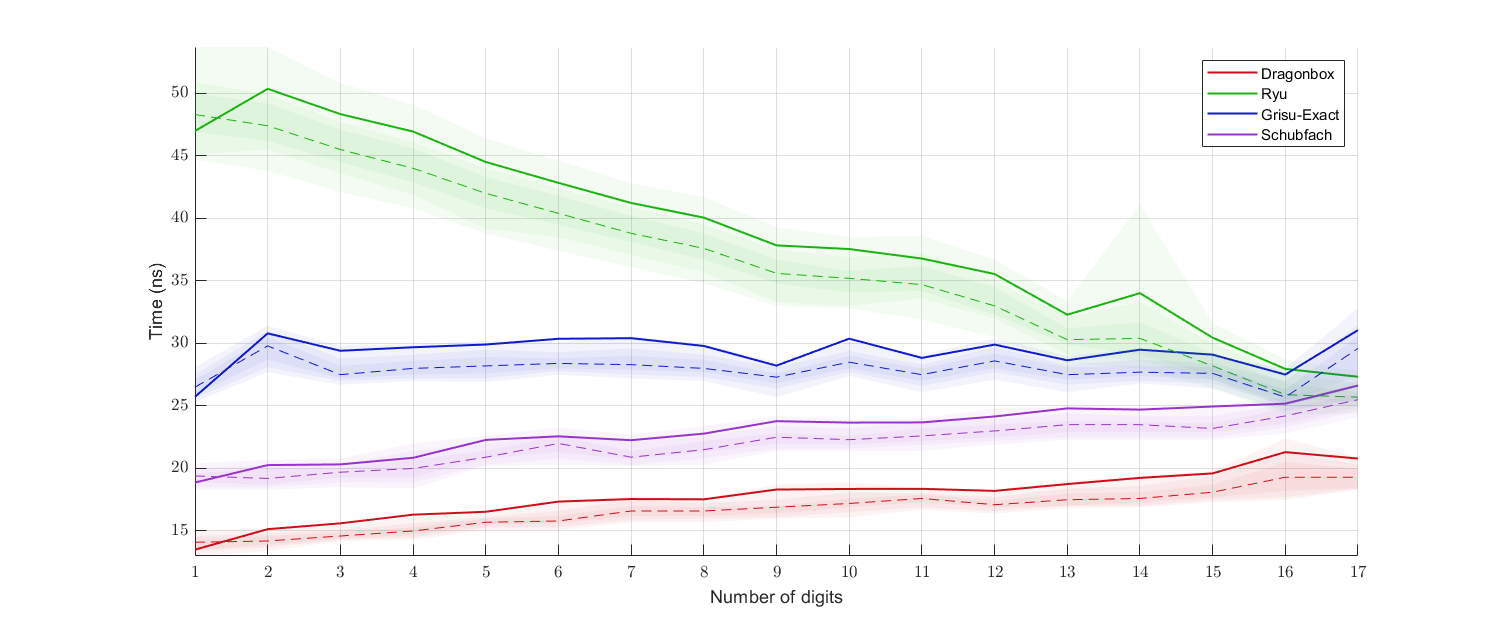
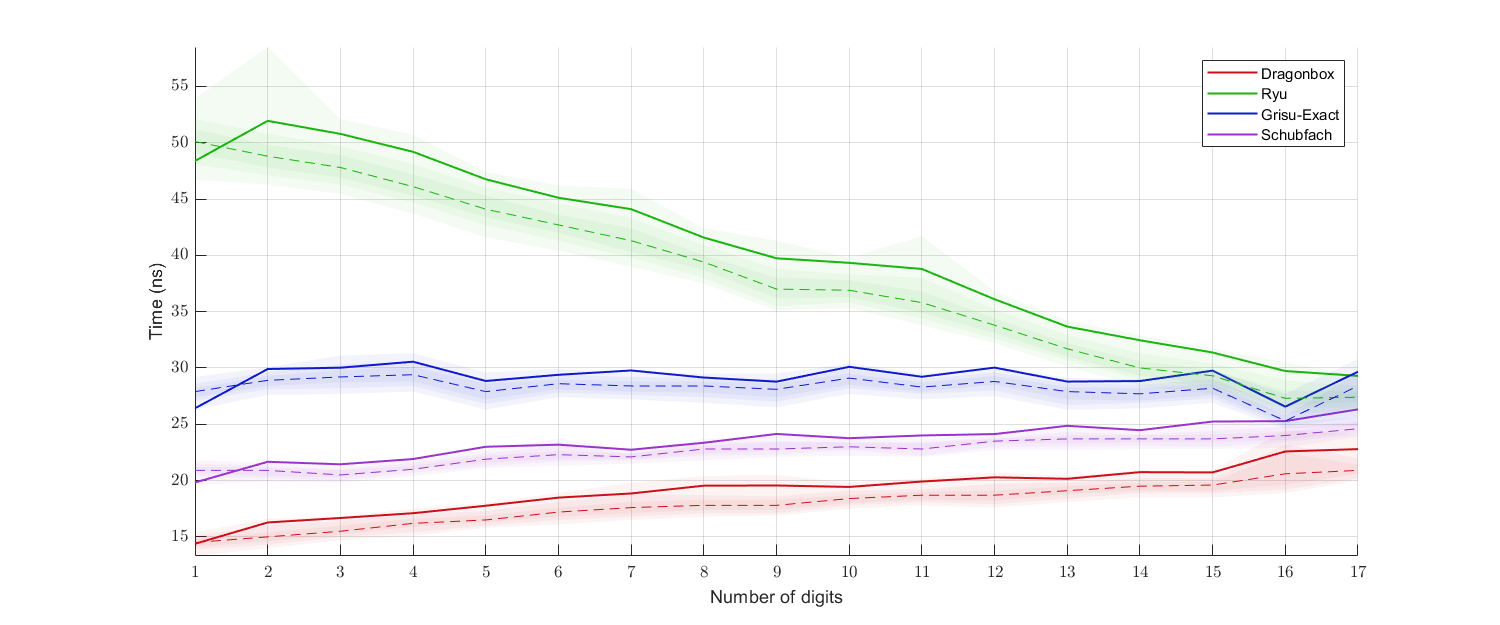
Rerun benchmark

Changed region(s): [[0.092, 0.1216, 0.92, 0.8816], [0.736, 0.456, 0.7667, 0.4864]]

diff --git a/other_files/unknown_win64_vc2019.html b/other_files/unknown_win64_vc2019.html
@@ -329,194 +329,194 @@ body { padding-top: 70px; }
 <h2>Source CSV</h2>
 <textarea id="textInput" class="form-control" rows="5" readonly>
   Type,Function,Digit,Time(ns)
-randomdigit,doubleconv,1,78.459000
-randomdigit,doubleconv,2,87.333000
-randomdigit,doubleconv,3,94.309000
-randomdigit,doubleconv,4,101.148000
-randomdigit,doubleconv,5,109.301000
-randomdigit,doubleconv,6,109.501000
-randomdigit,doubleconv,7,118.698000
-randomdigit,doubleconv,8,119.117000
-randomdigit,doubleconv,9,121.857000
-randomdigit,doubleconv,10,122.282000
-randomdigit,doubleconv,11,126.005000
-randomdigit,doubleconv,12,127.141000
-randomdigit,doubleconv,13,126.773000
-randomdigit,doubleconv,14,132.406000
-randomdigit,doubleconv,15,130.986000
-randomdigit,doubleconv,16,142.143000
-randomdigit,doubleconv,17,152.495000
-randomdigit,emyg,1,49.045000
-randomdigit,emyg,2,55.411000
-randomdigit,emyg,3,57.084000
-randomdigit,emyg,4,59.229000
-randomdigit,emyg,5,62.176000
-randomdigit,emyg,6,62.003000
-randomdigit,emyg,7,64.376000
-randomdigit,emyg,8,65.390000
-randomdigit,emyg,9,67.238000
-randomdigit,emyg,10,69.076000
-randomdigit,emyg,11,71.325000
-randomdigit,emyg,12,75.057000
-randomdigit,emyg,13,76.751000
-randomdigit,emyg,14,77.952000
-randomdigit,emyg,15,80.068000
-randomdigit,emyg,16,85.035000
-randomdigit,emyg,17,87.798000
-randomdigit,erthink,1,33.585000
-randomdigit,erthink,2,35.746000
-randomdigit,erthink,3,37.096000
-randomdigit,erthink,4,38.982000
-randomdigit,erthink,5,40.127000
-randomdigit,erthink,6,41.600000
-randomdigit,erthink,7,42.179000
-randomdigit,erthink,8,44.082000
-randomdigit,erthink,9,45.079000
-randomdigit,erthink,10,46.947000
-randomdigit,erthink,11,53.679000
-randomdigit,erthink,12,49.626000
-randomdigit,erthink,13,51.138000
-randomdigit,erthink,14,52.888000
-randomdigit,erthink,15,54.329000
-randomdigit,erthink,16,56.591000
-randomdigit,erthink,17,60.667000
-randomdigit,floaxie,1,32.630000
-randomdigit,floaxie,2,39.209000
-randomdigit,floaxie,3,42.250000
-randomdigit,floaxie,4,47.750000
-randomdigit,floaxie,5,54.084000
-randomdigit,floaxie,6,61.493000
-randomdigit,floaxie,7,69.409000
-randomdigit,floaxie,8,78.260000
-randomdigit,floaxie,9,84.281000
-randomdigit,floaxie,10,91.064000
-randomdigit,floaxie,11,95.948000
-randomdigit,floaxie,12,99.179000
-randomdigit,floaxie,13,103.726000
-randomdigit,floaxie,14,106.436000
-randomdigit,floaxie,15,107.823000
-randomdigit,floaxie,16,109.790000
-randomdigit,floaxie,17,111.747000
-randomdigit,fmt,1,49.873000
-randomdigit,fmt,2,53.514000
-randomdigit,fmt,3,51.179000
-randomdigit,fmt,4,54.108000
-randomdigit,fmt,5,51.936000
-randomdigit,fmt,6,55.172000
-randomdigit,fmt,7,53.064000
-randomdigit,fmt,8,55.216000
-randomdigit,fmt,9,54.939000
-randomdigit,fmt,10,56.561000
-randomdigit,fmt,11,57.420000
-randomdigit,fmt,12,55.717000
-randomdigit,fmt,13,57.486000
-randomdigit,fmt,14,60.700000
-randomdigit,fmt,15,60.603000
-randomdigit,fmt,16,59.742000
-randomdigit,fmt,17,65.131000
-randomdigit,grisu2,1,120.831000
-randomdigit,grisu2,2,127.696000
-randomdigit,grisu2,3,126.901000
-randomdigit,grisu2,4,133.807000
-randomdigit,grisu2,5,137.034000
-randomdigit,grisu2,6,139.217000
-randomdigit,grisu2,7,139.724000
-randomdigit,grisu2,8,141.315000
-randomdigit,grisu2,9,145.110000
-randomdigit,grisu2,10,149.569000
-randomdigit,grisu2,11,156.657000
-randomdigit,grisu2,12,160.463000
-randomdigit,grisu2,13,163.481000
-randomdigit,grisu2,14,165.619000
-randomdigit,grisu2,15,166.089000
-randomdigit,grisu2,16,172.497000
-randomdigit,grisu2,17,181.788000
-randomdigit,milo,1,53.926000
-randomdigit,milo,2,60.153000
-randomdigit,milo,3,63.386000
-randomdigit,milo,4,63.845000
-randomdigit,milo,5,65.914000
-randomdigit,milo,6,67.201000
-randomdigit,milo,7,68.445000
-randomdigit,milo,8,70.460000
-randomdigit,milo,9,71.553000
-randomdigit,milo,10,72.617000
-randomdigit,milo,11,78.578000
-randomdigit,milo,12,80.934000
-randomdigit,milo,13,88.537000
-randomdigit,milo,14,85.727000
-randomdigit,milo,15,87.594000
-randomdigit,milo,16,97.470000
-randomdigit,milo,17,98.293000
-randomdigit,ryu,1,63.388000
-randomdigit,ryu,2,61.571000
-randomdigit,ryu,3,63.211000
-randomdigit,ryu,4,60.217000
-randomdigit,ryu,5,58.703000
-randomdigit,ryu,6,57.261000
-randomdigit,ryu,7,56.742000
-randomdigit,ryu,8,55.131000
-randomdigit,ryu,9,49.953000
-randomdigit,ryu,10,53.806000
-randomdigit,ryu,11,51.291000
-randomdigit,ryu,12,49.256000
-randomdigit,ryu,13,47.162000
-randomdigit,ryu,14,45.579000
-randomdigit,ryu,15,43.387000
-randomdigit,ryu,16,43.176000
-randomdigit,ryu,17,42.666000
-randomdigit,dragonbox,1,27.650000
-randomdigit,dragonbox,2,29.309000
-randomdigit,dragonbox,3,29.324000
-randomdigit,dragonbox,4,29.538000
-randomdigit,dragonbox,5,29.173000
-randomdigit,dragonbox,6,30.391000
-randomdigit,dragonbox,7,29.689000
-randomdigit,dragonbox,8,30.594000
-randomdigit,dragonbox,9,30.180000
-randomdigit,dragonbox,10,30.685000
-randomdigit,dragonbox,11,29.797000
-randomdigit,dragonbox,12,30.619000
-randomdigit,dragonbox,13,30.249000
-randomdigit,dragonbox,14,31.367000
-randomdigit,dragonbox,15,30.308000
-randomdigit,dragonbox,16,31.410000
-randomdigit,dragonbox,17,35.472000
-randomdigit,dragonbox_comp,1,32.825000
-randomdigit,dragonbox_comp,2,34.558000
-randomdigit,dragonbox_comp,3,33.846000
-randomdigit,dragonbox_comp,4,34.591000
-randomdigit,dragonbox_comp,5,34.269000
-randomdigit,dragonbox_comp,6,35.542000
-randomdigit,dragonbox_comp,7,34.974000
-randomdigit,dragonbox_comp,8,36.058000
-randomdigit,dragonbox_comp,9,36.077000
-randomdigit,dragonbox_comp,10,36.825000
-randomdigit,dragonbox_comp,11,36.354000
-randomdigit,dragonbox_comp,12,36.855000
-randomdigit,dragonbox_comp,13,36.837000
-randomdigit,dragonbox_comp,14,37.842000
-randomdigit,dragonbox_comp,15,36.943000
-randomdigit,dragonbox_comp,16,38.763000
-randomdigit,dragonbox_comp,17,42.631000
-randomdigit,fmt_full_cache,1,43.418000
-randomdigit,fmt_full_cache,2,46.050000
-randomdigit,fmt_full_cache,3,46.090000
-randomdigit,fmt_full_cache,4,49.843000
-randomdigit,fmt_full_cache,5,48.798000
-randomdigit,fmt_full_cache,6,51.422000
-randomdigit,fmt_full_cache,7,49.316000
-randomdigit,fmt_full_cache,8,52.332000
-randomdigit,fmt_full_cache,9,53.438000
-randomdigit,fmt_full_cache,10,54.767000
-randomdigit,fmt_full_cache,11,54.962000
-randomdigit,fmt_full_cache,12,55.187000
-randomdigit,fmt_full_cache,13,55.543000
-randomdigit,fmt_full_cache,14,55.850000
-randomdigit,fmt_full_cache,15,55.447000
-randomdigit,fmt_full_cache,16,56.709000
-randomdigit,fmt_full_cache,17,61.359000
-  </textarea>
+randomdigit,doubleconv,1,86.228000
+randomdigit,doubleconv,2,95.433000
+randomdigit,doubleconv,3,106.244000
+randomdigit,doubleconv,4,110.417000
+randomdigit,doubleconv,5,115.523000
+randomdigit,doubleconv,6,121.489000
+randomdigit,doubleconv,7,117.749000
+randomdigit,doubleconv,8,124.299000
+randomdigit,doubleconv,9,117.958000
+randomdigit,doubleconv,10,121.491000
+randomdigit,doubleconv,11,132.732000
+randomdigit,doubleconv,12,136.973000
+randomdigit,doubleconv,13,131.999000
+randomdigit,doubleconv,14,132.294000
+randomdigit,doubleconv,15,138.627000
+randomdigit,doubleconv,16,139.850000
+randomdigit,doubleconv,17,146.298000
+randomdigit,emyg,1,51.573000
+randomdigit,emyg,2,55.405000
+randomdigit,emyg,3,61.655000
+randomdigit,emyg,4,63.348000
+randomdigit,emyg,5,62.883000
+randomdigit,emyg,6,64.313000
+randomdigit,emyg,7,72.009000
+randomdigit,emyg,8,78.801000
+randomdigit,emyg,9,82.410000
+randomdigit,emyg,10,76.806000
+randomdigit,emyg,11,78.349000
+randomdigit,emyg,12,79.419000
+randomdigit,emyg,13,83.289000
+randomdigit,emyg,14,83.178000
+randomdigit,emyg,15,83.538000
+randomdigit,emyg,16,90.624000
+randomdigit,emyg,17,98.789000
+randomdigit,erthink,1,36.237000
+randomdigit,erthink,2,33.432000
+randomdigit,erthink,3,40.198000
+randomdigit,erthink,4,36.666000
+randomdigit,erthink,5,39.073000
+randomdigit,erthink,6,37.726000
+randomdigit,erthink,7,41.059000
+randomdigit,erthink,8,44.301000
+randomdigit,erthink,9,45.250000
+randomdigit,erthink,10,42.244000
+randomdigit,erthink,11,44.638000
+randomdigit,erthink,12,51.162000
+randomdigit,erthink,13,47.595000
+randomdigit,erthink,14,49.340000
+randomdigit,erthink,15,53.488000
+randomdigit,erthink,16,52.795000
+randomdigit,erthink,17,60.616000
+randomdigit,floaxie,1,33.571000
+randomdigit,floaxie,2,40.230000
+randomdigit,floaxie,3,41.166000
+randomdigit,floaxie,4,46.787000
+randomdigit,floaxie,5,53.604000
+randomdigit,floaxie,6,71.616000
+randomdigit,floaxie,7,73.048000
+randomdigit,floaxie,8,76.735000
+randomdigit,floaxie,9,80.882000
+randomdigit,floaxie,10,94.187000
+randomdigit,floaxie,11,97.235000
+randomdigit,floaxie,12,100.801000
+randomdigit,floaxie,13,99.980000
+randomdigit,floaxie,14,103.489000
+randomdigit,floaxie,15,105.333000
+randomdigit,floaxie,16,110.717000
+randomdigit,floaxie,17,107.362000
+randomdigit,fmt,1,52.198000
+randomdigit,fmt,2,54.776000
+randomdigit,fmt,3,52.161000
+randomdigit,fmt,4,58.836000
+randomdigit,fmt,5,56.955000
+randomdigit,fmt,6,53.528000
+randomdigit,fmt,7,52.509000
+randomdigit,fmt,8,57.602000
+randomdigit,fmt,9,60.834000
+randomdigit,fmt,10,57.477000
+randomdigit,fmt,11,58.971000
+randomdigit,fmt,12,55.770000
+randomdigit,fmt,13,55.874000
+randomdigit,fmt,14,56.472000
+randomdigit,fmt,15,62.634000
+randomdigit,fmt,16,72.528000
+randomdigit,fmt,17,74.404000
+randomdigit,grisu2,1,114.043000
+randomdigit,grisu2,2,122.138000
+randomdigit,grisu2,3,120.953000
+randomdigit,grisu2,4,123.374000
+randomdigit,grisu2,5,122.704000
+randomdigit,grisu2,6,125.247000
+randomdigit,grisu2,7,130.645000
+randomdigit,grisu2,8,135.679000
+randomdigit,grisu2,9,138.106000
+randomdigit,grisu2,10,142.592000
+randomdigit,grisu2,11,145.814000
+randomdigit,grisu2,12,148.884000
+randomdigit,grisu2,13,152.208000
+randomdigit,grisu2,14,156.308000
+randomdigit,grisu2,15,162.578000
+randomdigit,grisu2,16,163.468000
+randomdigit,grisu2,17,172.360000
+randomdigit,milo,1,53.854000
+randomdigit,milo,2,58.307000
+randomdigit,milo,3,63.625000
+randomdigit,milo,4,63.469000
+randomdigit,milo,5,72.209000
+randomdigit,milo,6,74.151000
+randomdigit,milo,7,68.672000
+randomdigit,milo,8,69.694000
+randomdigit,milo,9,78.654000
+randomdigit,milo,10,73.236000
+randomdigit,milo,11,79.239000
+randomdigit,milo,12,82.419000
+randomdigit,milo,13,85.337000
+randomdigit,milo,14,87.659000
+randomdigit,milo,15,94.921000
+randomdigit,milo,16,91.800000
+randomdigit,milo,17,107.001000
+randomdigit,ryu,1,66.145000
+randomdigit,ryu,2,67.208000
+randomdigit,ryu,3,67.493000
+randomdigit,ryu,4,81.498000
+randomdigit,ryu,5,62.982000
+randomdigit,ryu,6,58.807000
+randomdigit,ryu,7,59.268000
+randomdigit,ryu,8,55.863000
+randomdigit,ryu,9,53.858000
+randomdigit,ryu,10,56.399000
+randomdigit,ryu,11,52.999000
+randomdigit,ryu,12,51.672000
+randomdigit,ryu,13,49.009000
+randomdigit,ryu,14,46.811000
+randomdigit,ryu,15,45.423000
+randomdigit,ryu,16,43.960000
+randomdigit,ryu,17,43.001000
+randomdigit,dragonbox,1,22.945000
+randomdigit,dragonbox,2,24.312000
+randomdigit,dragonbox,3,24.006000
+randomdigit,dragonbox,4,26.025000
+randomdigit,dragonbox,5,27.966000
+randomdigit,dragonbox,6,28.116000
+randomdigit,dragonbox,7,26.440000
+randomdigit,dragonbox,8,27.603000
+randomdigit,dragonbox,9,28.195000
+randomdigit,dragonbox,10,28.940000
+randomdigit,dragonbox,11,28.502000
+randomdigit,dragonbox,12,29.298000
+randomdigit,dragonbox,13,28.658000
+randomdigit,dragonbox,14,29.388000
+randomdigit,dragonbox,15,28.679000
+randomdigit,dragonbox,16,29.925000
+randomdigit,dragonbox,17,34.495000
+randomdigit,dragonbox_comp,1,30.176000
+randomdigit,dragonbox_comp,2,31.896000
+randomdigit,dragonbox_comp,3,34.401000
+randomdigit,dragonbox_comp,4,32.796000
+randomdigit,dragonbox_comp,5,30.836000
+randomdigit,dragonbox_comp,6,33.827000
+randomdigit,dragonbox_comp,7,34.167000
+randomdigit,dragonbox_comp,8,36.188000
+randomdigit,dragonbox_comp,9,38.506000
+randomdigit,dragonbox_comp,10,39.042000
+randomdigit,dragonbox_comp,11,34.974000
+randomdigit,dragonbox_comp,12,37.818000
+randomdigit,dragonbox_comp,13,36.373000
+randomdigit,dragonbox_comp,14,37.244000
+randomdigit,dragonbox_comp,15,36.696000
+randomdigit,dragonbox_comp,16,38.588000
+randomdigit,dragonbox_comp,17,40.965000
+randomdigit,fmt_full_cache,1,41.960000
+randomdigit,fmt_full_cache,2,46.757000
+randomdigit,fmt_full_cache,3,48.205000
+randomdigit,fmt_full_cache,4,57.211000
+randomdigit,fmt_full_cache,5,48.030000
+randomdigit,fmt_full_cache,6,53.682000
+randomdigit,fmt_full_cache,7,49.971000
+randomdigit,fmt_full_cache,8,51.311000
+randomdigit,fmt_full_cache,9,52.827000
+randomdigit,fmt_full_cache,10,52.186000
+randomdigit,fmt_full_cache,11,54.945000
+randomdigit,fmt_full_cache,12,55.276000
+randomdigit,fmt_full_cache,13,56.670000
+randomdigit,fmt_full_cache,14,56.003000
+randomdigit,fmt_full_cache,15,56.479000
+randomdigit,fmt_full_cache,16,57.826000
+randomdigit,fmt_full_cache,17,61.658000
+</textarea>
 </div>
 <div class="row" id="downloadDD" style="display: none">
 <div class="btn-group pull-right" >
